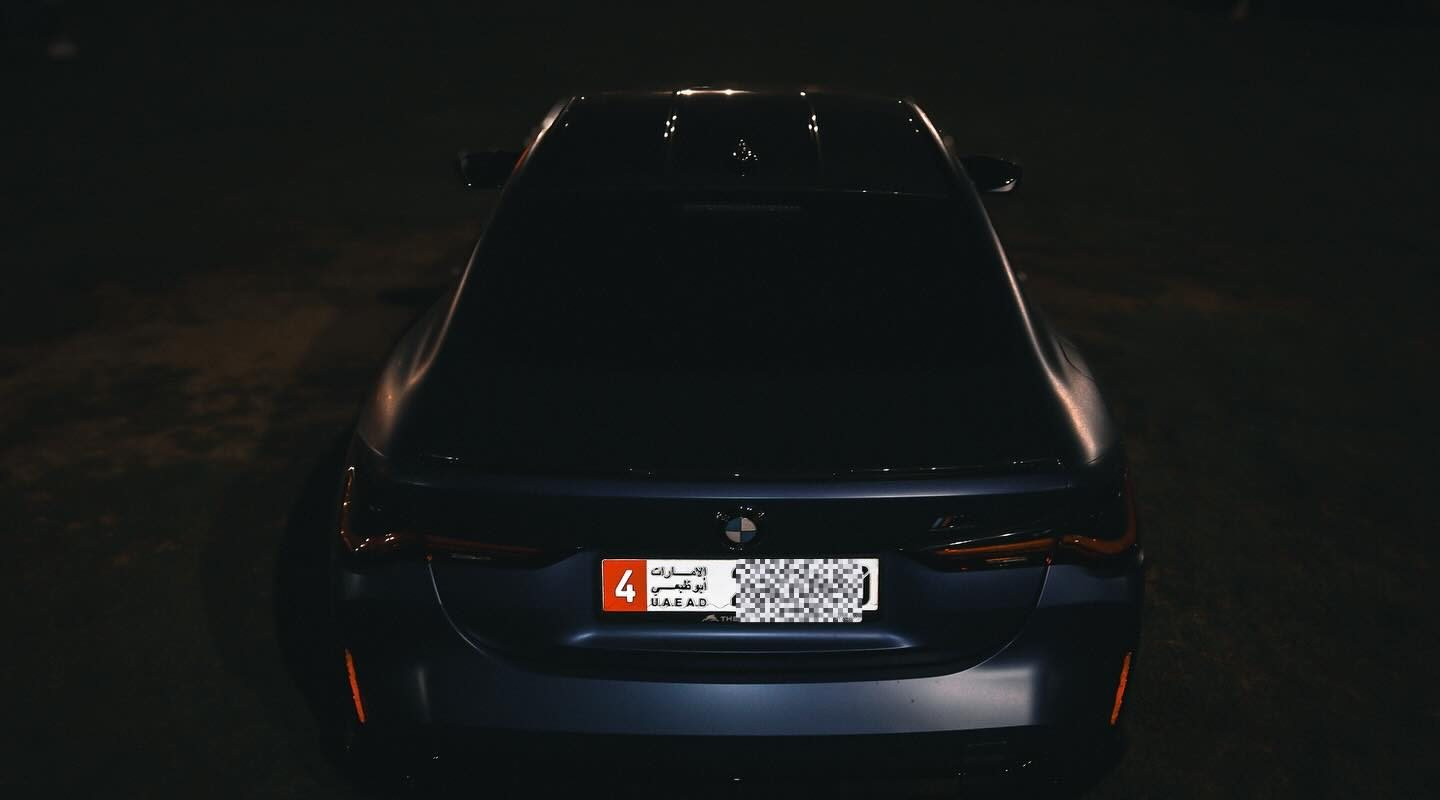
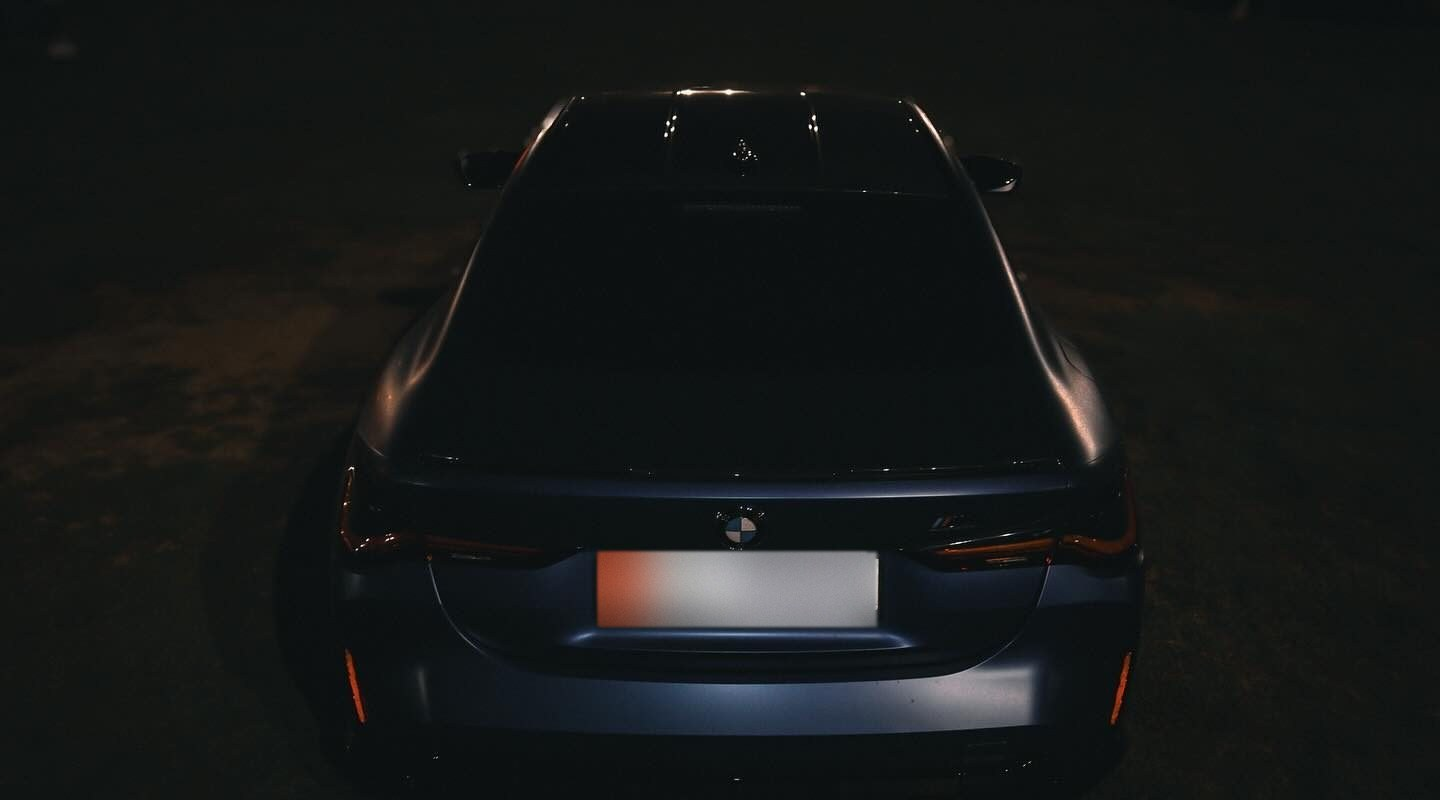
Cars sorted by brand: Porsche, McLaren, BMW and JDM collections, new 720S, Supra, GT-R, IS and NSX frames from the originals, soft plate blur on the M4 shots, Scrap Lung down to one image
Claude-Session: https://claude.ai/code/session_012oZbuXUhdiVNdptCqCvHUa

Changed region(s): [[0.4062, 0.6875, 0.625, 0.8125]]

diff --git a/index.html b/index.html
@@ -31,7 +31,7 @@
     <link href="https://fonts.googleapis.com/css2?family=Inter:wght@400;500;600&family=JetBrains+Mono&family=Poppins:wght@300;500;600&display=swap" rel="stylesheet">
 
     <!-- my stylesheet -->
-    <link rel="stylesheet" href="css/style.css?v=643ec85a">
+    <link rel="stylesheet" href="css/style.css?v=739fb6aa">
     <script>
         try {
             var r = new URLSearchParams(location.search).get("reveal");
@@ -220,36 +220,48 @@
                     <p>Cars after dark, golden hour, travel, portraits and events. Click a series to flip through every frame.</p>
                 </div>
 
-                <div class="collection">
-                    <div class="collection-head"><span class="label">Collection 01</span><h3>Cars</h3><span class="label count">8 series</span></div>
+                <div class="collection-row">
+                <div class="collection" style="--cols:3">
+                    <div class="collection-head"><span class="label">Collection 01</span><h3>Porsche</h3><span class="label count">3 series</span></div>
                     <div class="gallery shoots">
-                <button class="tile" data-cat="photo" data-full="images/gallery/meet-1.jpg, images/gallery/meet-2.jpg, images/gallery/meet-3.jpg, images/gallery/meet-4.jpg, images/gallery/meet-5.jpg" data-desc="Two car meets: a red 964 and a Supra under the lights, then a GT3 and an R34 out in the open.">
-                    <div class="media"><img src="images/gallery/meet-1.jpg" alt="Meet Season, 2019" loading="lazy"><span class="badge">5 FRAMES</span></div>
-                    <div class="cap"><h3>Meet Season, 2019</h3><p>Two car meets: a red 964 and a Supra under the lights, then a GT3 and an R34 out in the open.</p></div>
-                </button>
-                <button class="tile" data-cat="photo" data-full="images/gallery/cars-1.jpg, images/gallery/cars-2.jpg, images/gallery/cars-3.jpg, images/gallery/cars-4.jpg, images/gallery/cars-5.jpg, images/gallery/cars-6.jpg" data-desc="A BMW M4 Competition shot at night, lit only by its own headlights and what was around it.">
-                    <div class="media"><img src="images/gallery/cars-1.jpg" alt="Matte Blue, After Dark" loading="lazy"><span class="badge">6 FRAMES</span></div>
-                    <div class="cap"><h3>Matte Blue, After Dark</h3><p>A BMW M4 Competition shot at night, lit only by its own headlights and what was around it.</p></div>
-                </button>
-                <button class="tile" data-cat="photo" data-full="images/gallery/gt3-1.jpg, images/gallery/gt3-2.jpg, images/gallery/gt3-3.jpg, images/gallery/gt3-4.jpg, images/gallery/gt3-5.jpg, images/gallery/gt3-6.jpg, images/gallery/gt3-7.jpg" data-desc="A Porsche 911 GT3 shot as the sun went down: the shape of it, low and wide.">
-                    <div class="media"><img src="images/gallery/gt3-1.jpg" alt="GT3, Golden Hour" loading="lazy"><span class="badge">7 FRAMES</span></div>
+                <button class="tile" data-cat="photo" data-full="images/gallery/gt3-1.jpg, images/gallery/gt3-2.jpg, images/gallery/gt3-3.jpg, images/gallery/gt3-4.jpg, images/gallery/gt3-5.jpg, images/gallery/gt3-6.jpg, images/gallery/gt3-7.jpg, images/gallery/meet-5.jpg" data-desc="A Porsche 911 GT3 shot as the sun went down: the shape of it, low and wide.">
+                    <div class="media"><img src="images/gallery/gt3-1.jpg" alt="GT3, Golden Hour" loading="lazy"><span class="badge">8 FRAMES</span></div>
                     <div class="cap"><h3>GT3, Golden Hour</h3><p>A Porsche 911 GT3 shot as the sun went down: the shape of it, low and wide.</p></div>
-                </button>
-                <button class="tile" data-cat="photo" data-full="images/gallery/is-1.jpg, images/gallery/is-4.jpg, images/gallery/is-5.jpg" data-desc="One white Lexus IS out in the desert as the sun goes down: the full car, the front and the tail.">
-                    <div class="media"><img src="images/gallery/is-1.jpg" alt="White IS, Golden Hour" loading="lazy"><span class="badge">3 FRAMES</span></div>
-                    <div class="cap"><h3>White IS, Golden Hour</h3><p>One white Lexus IS out in the desert as the sun goes down: the full car, the front and the tail.</p></div>
-                </button>
-                <button class="tile" data-cat="photo" data-full="images/gallery/detail-1.jpg, images/gallery/detail-2.jpg, images/gallery/detail-3.jpg, images/gallery/detail-4.jpg, images/gallery/detail-5.jpg, images/gallery/detail-6.jpg, images/gallery/detail-7.jpg" data-desc="Badge, sill plate, tail lights and wheels: the small parts of a car, shot close.">
-                    <div class="media"><img src="images/gallery/detail-1.jpg" alt="Details in the Dark" loading="lazy"><span class="badge">7 FRAMES</span></div>
-                    <div class="cap"><h3>Details in the Dark</h3><p>Badge, sill plate, tail lights and wheels: the small parts of a car, shot close.</p></div>
                 </button>
                 <button class="tile" data-cat="photo" data-full="images/gallery/gt3d-1.jpg, images/gallery/gt3d-2.jpg, images/gallery/gt3d-3.jpg, images/gallery/gt3d-4.jpg, images/gallery/gt3d-5.jpg, images/gallery/gt3d-6.jpg, images/gallery/gt3d-7.jpg, images/gallery/gt3d-8.jpg" data-desc="Crest, decals, headlight, bronze wheels and yellow calipers. The details that make the car.">
                     <div class="media"><img src="images/gallery/gt3d-1.jpg" alt="GT3, Up Close" loading="lazy"><span class="badge">8 FRAMES</span></div>
                     <div class="cap"><h3>GT3, Up Close</h3><p>Crest, decals, headlight, bronze wheels and yellow calipers. The details that make the car.</p></div>
                 </button>
-                <button class="tile" data-cat="photo" data-full="images/gallery/md-2.jpg, images/gallery/md-4.jpg, images/gallery/md-3.jpg" data-desc="Close-ups from the meet: carbon weave, a carbon fender and racing stripes.">
-                    <div class="media"><img src="images/gallery/md-2.jpg" alt="Carbon and Chrome" loading="lazy"><span class="badge">3 FRAMES</span></div>
-                    <div class="cap"><h3>Carbon and Chrome</h3><p>Close-ups from the meet: carbon weave, a carbon fender and racing stripes.</p></div>
+                <button class="tile" data-cat="photo" data-full="images/gallery/meet-1.jpg, images/gallery/p911-1.jpg, images/gallery/p911-2.jpg" data-desc="The air-cooled and early water-cooled 911s at a night meet, in red and grey.">
+                    <div class="media"><img src="images/gallery/meet-1.jpg" alt="Classic 911s, Meet Night" loading="lazy"><span class="badge">3 FRAMES</span></div>
+                    <div class="cap"><h3>Classic 911s, Meet Night</h3><p>The air-cooled and early water-cooled 911s at a night meet, in red and grey.</p></div>
+                </button>
+                    </div>
+                </div>
+                <div class="collection" style="--cols:2">
+                    <div class="collection-head"><span class="label">Collection 02</span><h3>McLaren</h3><span class="label count">2 series</span></div>
+                    <div class="gallery shoots">
+                <button class="tile" data-cat="photo" data-full="images/gallery/mcl-1.jpg, images/gallery/mcl-2.jpg, images/gallery/mcl-3.jpg, images/gallery/mcl-4.jpg" data-desc="A white McLaren 720S at a night meet: the shape of it from the front, the side and the tail.">
+                    <div class="media"><img src="images/gallery/mcl-1.jpg" alt="720S, After Dark" loading="lazy"><span class="badge">4 FRAMES</span></div>
+                    <div class="cap"><h3>720S, After Dark</h3><p>A white McLaren 720S at a night meet: the shape of it from the front, the side and the tail.</p></div>
+                </button>
+                <button class="tile" data-cat="photo" data-full="images/gallery/md-2.jpg, images/gallery/mcl-5.jpg, images/gallery/md-4.jpg" data-desc="Up close on the same car: the eye socket headlight, the badge on carbon and the carbon fender.">
+                    <div class="media"><img src="images/gallery/md-2.jpg" alt="720S, Carbon and Detail" loading="lazy"><span class="badge">3 FRAMES</span></div>
+                    <div class="cap"><h3>720S, Carbon and Detail</h3><p>Up close on the same car: the eye socket headlight, the badge on carbon and the carbon fender.</p></div>
+                </button>
+                    </div>
+                </div>
+                </div>
+                <div class="collection" style="--cols:3">
+                    <div class="collection-head"><span class="label">Collection 03</span><h3>BMW</h3><span class="label count">3 series</span></div>
+                    <div class="gallery shoots">
+                <button class="tile" data-cat="photo" data-full="images/gallery/cars-1.jpg, images/gallery/cars-2.jpg, images/gallery/cars-3.jpg, images/gallery/cars-4.jpg, images/gallery/cars-5.jpg, images/gallery/cars-6.jpg" data-desc="A BMW M4 Competition shot at night, lit only by its own headlights and what was around it.">
+                    <div class="media"><img src="images/gallery/cars-1.jpg" alt="Matte Blue, After Dark" loading="lazy"><span class="badge">6 FRAMES</span></div>
+                    <div class="cap"><h3>Matte Blue, After Dark</h3><p>A BMW M4 Competition shot at night, lit only by its own headlights and what was around it.</p></div>
+                </button>
+                <button class="tile" data-cat="photo" data-full="images/gallery/detail-1.jpg, images/gallery/detail-2.jpg, images/gallery/detail-3.jpg, images/gallery/detail-4.jpg, images/gallery/detail-5.jpg, images/gallery/detail-6.jpg, images/gallery/detail-7.jpg" data-desc="Badge, sill plate, tail lights and wheels: the small parts of the M4, shot close.">
+                    <div class="media"><img src="images/gallery/detail-1.jpg" alt="Details in the Dark" loading="lazy"><span class="badge">7 FRAMES</span></div>
+                    <div class="cap"><h3>Details in the Dark</h3><p>Badge, sill plate, tail lights and wheels: the small parts of the M4, shot close.</p></div>
                 </button>
                 <button class="tile" data-cat="photo" data-full="images/gallery/e30-2.jpg, images/gallery/e30-3.jpg, images/gallery/e30-4.jpg, images/gallery/e30-1.jpg" data-desc="Night photo series lit around one car.">
                     <div class="media"><img src="images/gallery/e30-2.jpg" alt="E30 After Dark" loading="lazy"><span class="badge">4 FRAMES</span></div>
@@ -257,9 +269,30 @@
                 </button>
                     </div>
                 </div>
+                <div class="collection" style="--cols:4">
+                    <div class="collection-head"><span class="label">Collection 04</span><h3>JDM</h3><span class="label count">4 series</span></div>
+                    <div class="gallery shoots">
+                <button class="tile" data-cat="photo" data-full="images/gallery/gtr-1.jpg, images/gallery/meet-4.jpg, images/gallery/gtr-2.jpg, images/gallery/gtr-3.jpg, images/gallery/gtr-4.jpg" data-desc="R32 and R34 GT-Rs at a meet, down to the RB26 under the bonnet.">
+                    <div class="media"><img src="images/gallery/gtr-1.jpg" alt="Skyline GT-R" loading="lazy"><span class="badge">5 FRAMES</span></div>
+                    <div class="cap"><h3>Skyline GT-R</h3><p>R32 and R34 GT-Rs at a meet, down to the RB26 under the bonnet.</p></div>
+                </button>
+                <button class="tile" data-cat="photo" data-full="images/gallery/meet-2.jpg, images/gallery/supra-1.jpg, images/gallery/supra-2.jpg, images/gallery/supra-3.jpg, images/gallery/supra-4.jpg" data-desc="A white Mk4 Supra on gold wheels, shot around the car at night.">
+                    <div class="media"><img src="images/gallery/meet-2.jpg" alt="Supra, Gold Wheels" loading="lazy"><span class="badge">5 FRAMES</span></div>
+                    <div class="cap"><h3>Supra, Gold Wheels</h3><p>A white Mk4 Supra on gold wheels, shot around the car at night.</p></div>
+                </button>
+                <button class="tile" data-cat="photo" data-full="images/gallery/is-1.jpg, images/gallery/is-6.jpg, images/gallery/is-7.jpg, images/gallery/is-4.jpg, images/gallery/is-8.jpg, images/gallery/is-9.jpg, images/gallery/is-5.jpg" data-desc="One white Lexus IS out in the desert as the sun goes down: the full car, the front and the tail.">
+                    <div class="media"><img src="images/gallery/is-1.jpg" alt="White IS, Golden Hour" loading="lazy"><span class="badge">7 FRAMES</span></div>
+                    <div class="cap"><h3>White IS, Golden Hour</h3><p>One white Lexus IS out in the desert as the sun goes down: the full car, the front and the tail.</p></div>
+                </button>
+                <button class="tile" data-cat="photo" data-full="images/gallery/nsx-1.jpg, images/gallery/nsx-2.jpg" data-desc="A silver Honda NSX on the grass at a night meet.">
+                    <div class="media"><img src="images/gallery/nsx-1.jpg" alt="NSX at Night" loading="lazy"><span class="badge">2 FRAMES</span></div>
+                    <div class="cap"><h3>NSX at Night</h3><p>A silver Honda NSX on the grass at a night meet.</p></div>
+                </button>
+                    </div>
+                </div>
                 <div class="collection-pair">
-                <div class="collection half">
-                    <div class="collection-head"><span class="label">Collection 02</span><h3>Places</h3><span class="label count">2 series</span></div>
+                <div class="collection half" style="--cols:2">
+                    <div class="collection-head"><span class="label">Collection 05</span><h3>Places</h3><span class="label count">2 series</span></div>
                     <div class="gallery shoots">
                 <button class="tile" data-cat="photo" data-full="images/five-senses/sight.jpg, images/five-senses/smell.jpg, images/five-senses/sound.jpg, images/five-senses/taste.jpg, images/five-senses/touch.jpg" data-desc="One city at night, shot as five frames: sight, smell, sound, taste and touch.">
                     <div class="media"><img src="images/five-senses/sight.jpg" alt="Five Senses of Toronto" loading="lazy"><span class="badge">5 FRAMES</span></div>
@@ -271,8 +304,8 @@
                 </button>
                     </div>
                 </div>
-                <div class="collection half">
-                    <div class="collection-head"><span class="label">Collection 03</span><h3>People</h3><span class="label count">2 series</span></div>
+                <div class="collection half" style="--cols:2">
+                    <div class="collection-head"><span class="label">Collection 06</span><h3>People</h3><span class="label count">2 series</span></div>
                     <div class="gallery shoots">
                 <button class="tile" data-cat="photo" data-full="images/gallery/portrait-3.jpg, images/gallery/portrait-1.jpg, images/gallery/portrait-2.jpg" data-desc="Natural light and reflector portraits.">
                     <div class="media"><img src="images/gallery/portrait-3.jpg" alt="Natural Light Portraits" loading="lazy"><span class="badge">3 FRAMES</span></div>
@@ -347,9 +380,9 @@
                     <div class="media"><img src="images/aria/b-guidlines.jpg" alt="ARIA Brand Rulebook" loading="lazy"></div>
                     <div class="cap"><h3>ARIA Brand Rulebook</h3><p>The printed rulebook for a team-built outdoor apparel identity.</p><span class="note">Team project</span></div>
                 </button>
-                <button class="tile" data-cat="print" data-full="images/scrap-lung/final.jpg, images/scrap-lung/rings.jpg, images/scrap-lung/hit.jpg, images/scrap-lung/teammate.jpg" data-desc="A gas mask that is also the game's health bar. Photobashed in Photoshop from eight photos, with storyboards of it in use.">
-                    <div class="media"><img src="images/scrap-lung/final.jpg" alt="Scrap Lung" loading="lazy"><span class="badge">4 FRAMES</span></div>
-                    <div class="cap"><h3>Scrap Lung</h3><p>A gas mask that is also the game's health bar. Photobashed in Photoshop from eight photos, with storyboards of it in use.</p><span class="note">Built from Adobe Stock photos</span></div>
+                <button class="tile" data-cat="print" data-full="images/scrap-lung/final.jpg" data-desc="A gas mask that is also the game's health bar. Photobashed in Photoshop from eight photos.">
+                    <div class="media"><img src="images/scrap-lung/final.jpg" alt="Scrap Lung" loading="lazy"></div>
+                    <div class="cap"><h3>Scrap Lung</h3><p>A gas mask that is also the game's health bar. Photobashed in Photoshop from eight photos.</p><span class="note">Built from Adobe Stock photos</span></div>
                 </button>
                 <button class="tile" data-cat="print" data-full="images/gallery/wendigo.jpg" data-desc="A Photoshop composite: a hunter and two creatures in a forest at night, with the light, rain and colour matched across every piece.">
                     <div class="media"><img src="images/gallery/wendigo-thumb.jpg" alt="Wendigo" loading="lazy"></div>

diff --git a/css/style.css b/css/style.css
@@ -2429,7 +2429,34 @@ html.revealing body {
     }
 }
 
+/* two columns on phones and tablets: an odd last series takes the full row as a wide frame instead of leaving a hole */
+@media (max-width: 999px) {
+    .shoots .tile:last-child:nth-child(odd) {
+        grid-column: 1 / -1;
+    }
+
+    .shoots .tile:last-child:nth-child(odd) .media {
+        aspect-ratio: 16 / 9;
+    }
+}
+
 @media (min-width: 1000px) {
+    /* each car brand gets as many columns as it has series, porsche and mclaren share one row */
+    .collection:not(.half) .shoots {
+        grid-template-columns: repeat(var(--cols, 4), 1fr);
+    }
+
+    .collection-row {
+        display: grid;
+        grid-template-columns: 3fr 2fr;
+        gap: 0 1rem;
+    }
+
+    /* both heads on the same line */
+    .collection-row > .collection {
+        margin-top: 1.5rem;
+    }
+
     .collection-pair {
         grid-template-columns: 1fr 1fr;
     }

diff --git a/more.html b/more.html
@@ -31,7 +31,7 @@
     <link href="https://fonts.googleapis.com/css2?family=Inter:wght@400;500;600&family=JetBrains+Mono&family=Poppins:wght@300;500;600&display=swap" rel="stylesheet">
 
     <!-- my stylesheet -->
-    <link rel="stylesheet" href="css/style.css?v=643ec85a">
+    <link rel="stylesheet" href="css/style.css?v=739fb6aa">
 </head>
 <body>
     <div class="scroll-bar" aria-hidden="true"></div>

diff --git a/projects/aria.html b/projects/aria.html
@@ -30,7 +30,7 @@
     <link href="https://fonts.googleapis.com/css2?family=Inter:wght@400;500;600&family=JetBrains+Mono&family=Poppins:wght@300;500;600&display=swap" rel="stylesheet">
 
     <!-- my stylesheet -->
-    <link rel="stylesheet" href="../css/style.css?v=643ec85a">
+    <link rel="stylesheet" href="../css/style.css?v=739fb6aa">
 </head>
 <body>
     <!-- Utility Bar -->

diff --git a/projects/boncafe.html b/projects/boncafe.html
@@ -30,7 +30,7 @@
     <link href="https://fonts.googleapis.com/css2?family=Inter:wght@400;500;600&family=JetBrains+Mono&family=Poppins:wght@300;500;600&display=swap" rel="stylesheet">
 
     <!-- my stylesheet -->
-    <link rel="stylesheet" href="../css/style.css?v=643ec85a">
+    <link rel="stylesheet" href="../css/style.css?v=739fb6aa">
 </head>
 <body>
     <!-- Utility Bar -->

diff --git a/projects/compositing.html b/projects/compositing.html
@@ -30,7 +30,7 @@
     <link href="https://fonts.googleapis.com/css2?family=Inter:wght@400;500;600&family=JetBrains+Mono&family=Poppins:wght@300;500;600&display=swap" rel="stylesheet">
 
     <!-- my stylesheet -->
-    <link rel="stylesheet" href="../css/style.css?v=643ec85a">
+    <link rel="stylesheet" href="../css/style.css?v=739fb6aa">
 </head>
 <body>
     <!-- Utility Bar -->

diff --git a/projects/five-senses.html b/projects/five-senses.html
@@ -30,7 +30,7 @@
     <link href="https://fonts.googleapis.com/css2?family=Inter:wght@400;500;600&family=JetBrains+Mono&family=Poppins:wght@300;500;600&display=swap" rel="stylesheet">
 
     <!-- my stylesheet -->
-    <link rel="stylesheet" href="../css/style.css?v=643ec85a">
+    <link rel="stylesheet" href="../css/style.css?v=739fb6aa">
 </head>
 <body>
     <!-- Utility Bar -->

diff --git a/projects/hoddle.html b/projects/hoddle.html
@@ -30,7 +30,7 @@
     <link href="https://fonts.googleapis.com/css2?family=Inter:wght@400;500;600&family=JetBrains+Mono&family=Poppins:wght@300;500;600&display=swap" rel="stylesheet">
 
     <!-- my stylesheet -->
-    <link rel="stylesheet" href="../css/style.css?v=643ec85a">
+    <link rel="stylesheet" href="../css/style.css?v=739fb6aa">
 </head>
 <body>
     <!-- Utility Bar -->

diff --git a/projects/nil.html b/projects/nil.html
@@ -30,7 +30,7 @@
     <link href="https://fonts.googleapis.com/css2?family=Inter:wght@400;500;600&family=JetBrains+Mono&family=Poppins:wght@300;500;600&display=swap" rel="stylesheet">
 
     <!-- my stylesheet -->
-    <link rel="stylesheet" href="../css/style.css?v=643ec85a">
+    <link rel="stylesheet" href="../css/style.css?v=739fb6aa">
 </head>
 <body>
     <!-- Utility Bar -->

diff --git a/projects/otuka.html b/projects/otuka.html
@@ -30,7 +30,7 @@
     <link href="https://fonts.googleapis.com/css2?family=Inter:wght@400;500;600&family=JetBrains+Mono&family=Poppins:wght@300;500;600&display=swap" rel="stylesheet">
 
     <!-- my stylesheet -->
-    <link rel="stylesheet" href="../css/style.css?v=643ec85a">
+    <link rel="stylesheet" href="../css/style.css?v=739fb6aa">
 </head>
 <body>
     <!-- Utility Bar -->
